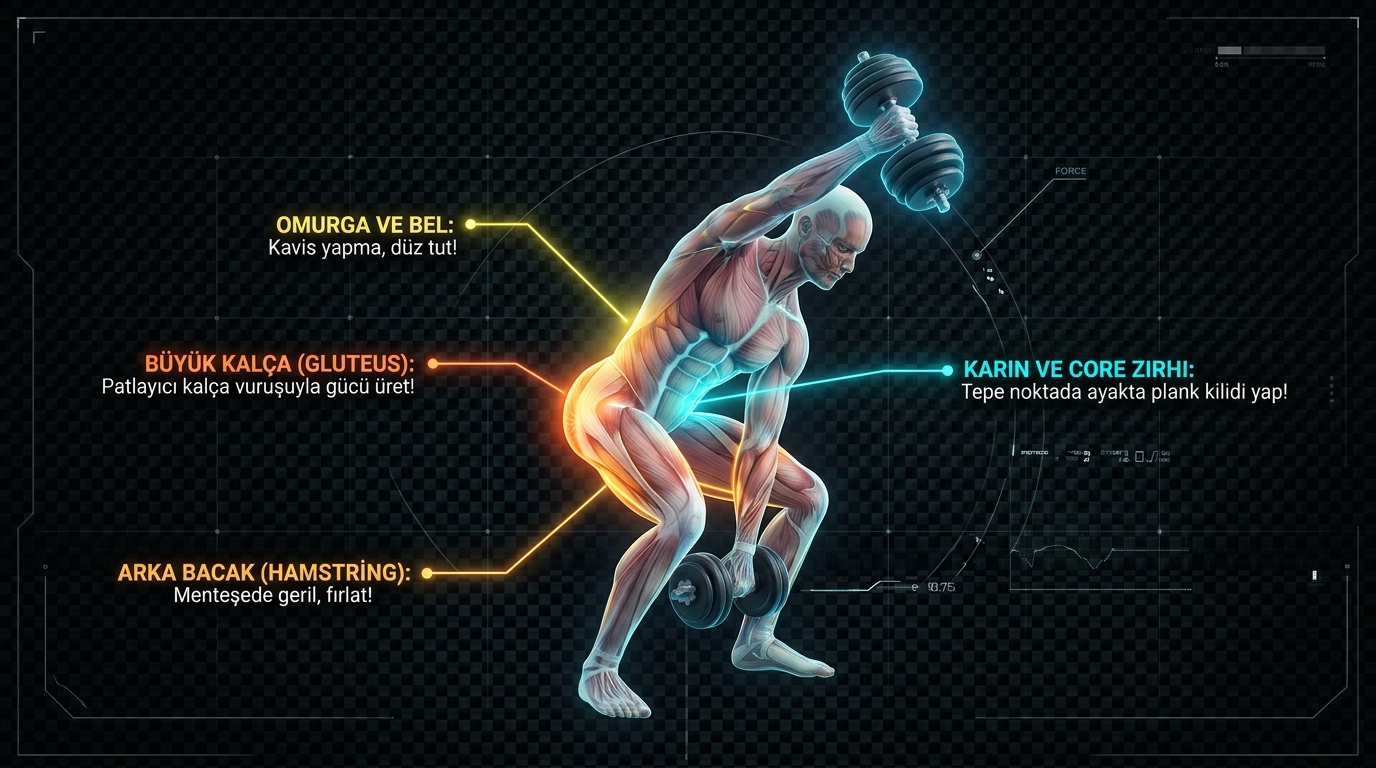
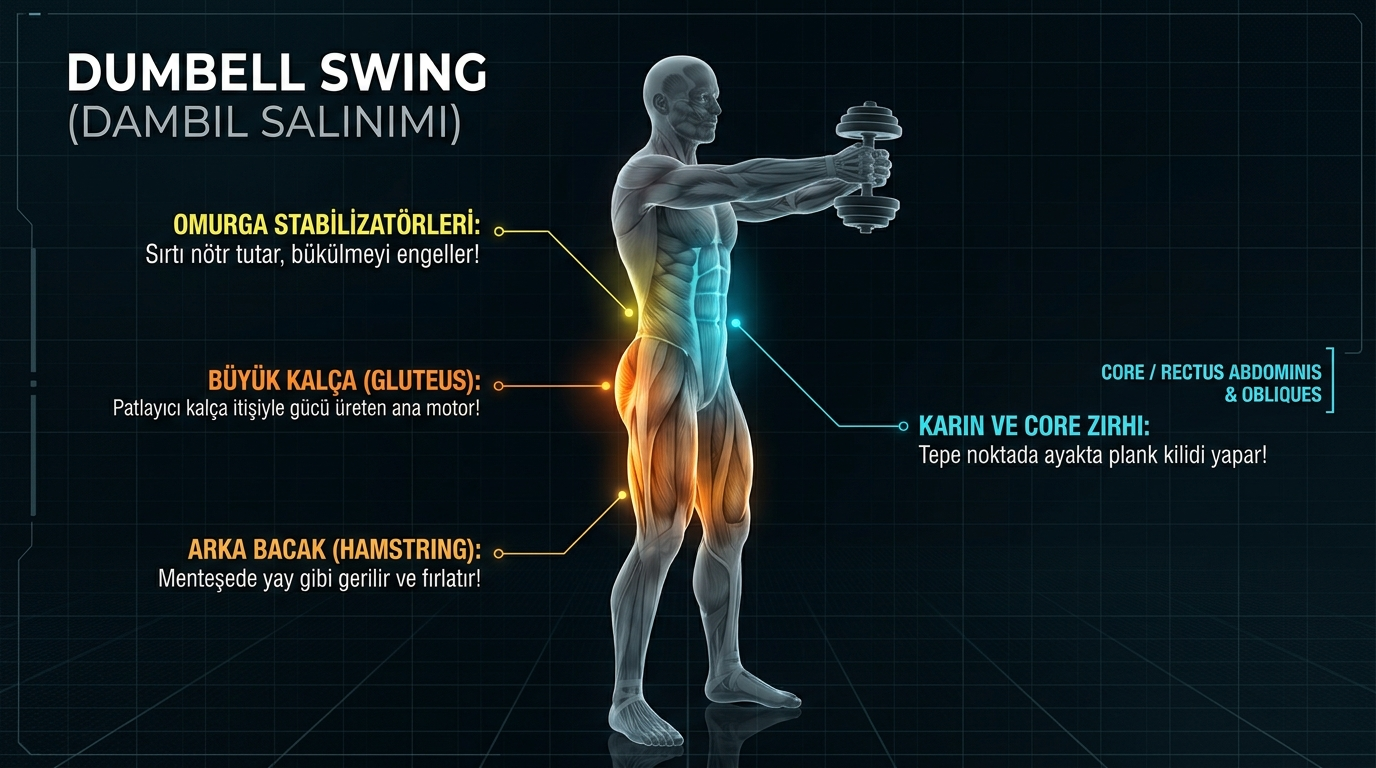
fix: replace incorrect Dumbbell Swing visual (eliminate bicep curl & overhead split) with textbook straight-arm hip-drive swing guide

diff --git a/sw.js b/sw.js
@@ -1,4 +1,4 @@
-const CACHE_NAME = 'celik-kodu-cache-v19';
+const CACHE_NAME = 'celik-kodu-cache-v20';
 const ASSETS = [
   './',
   './index.html',
